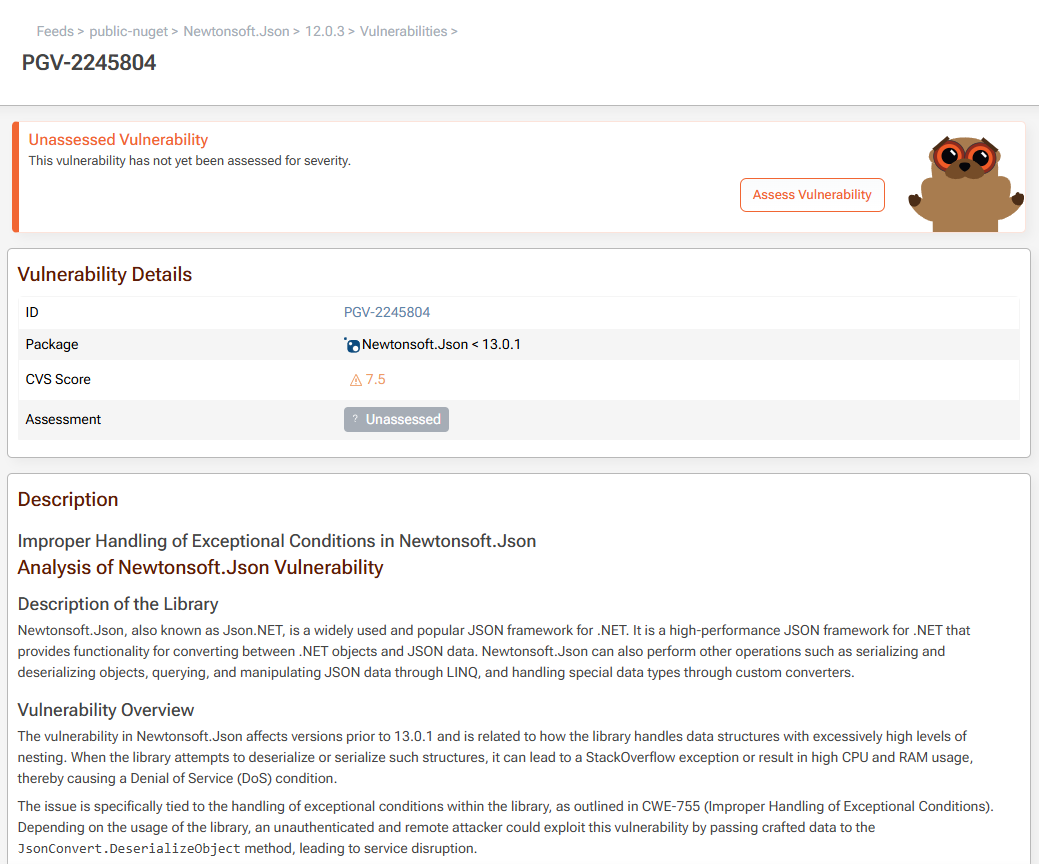
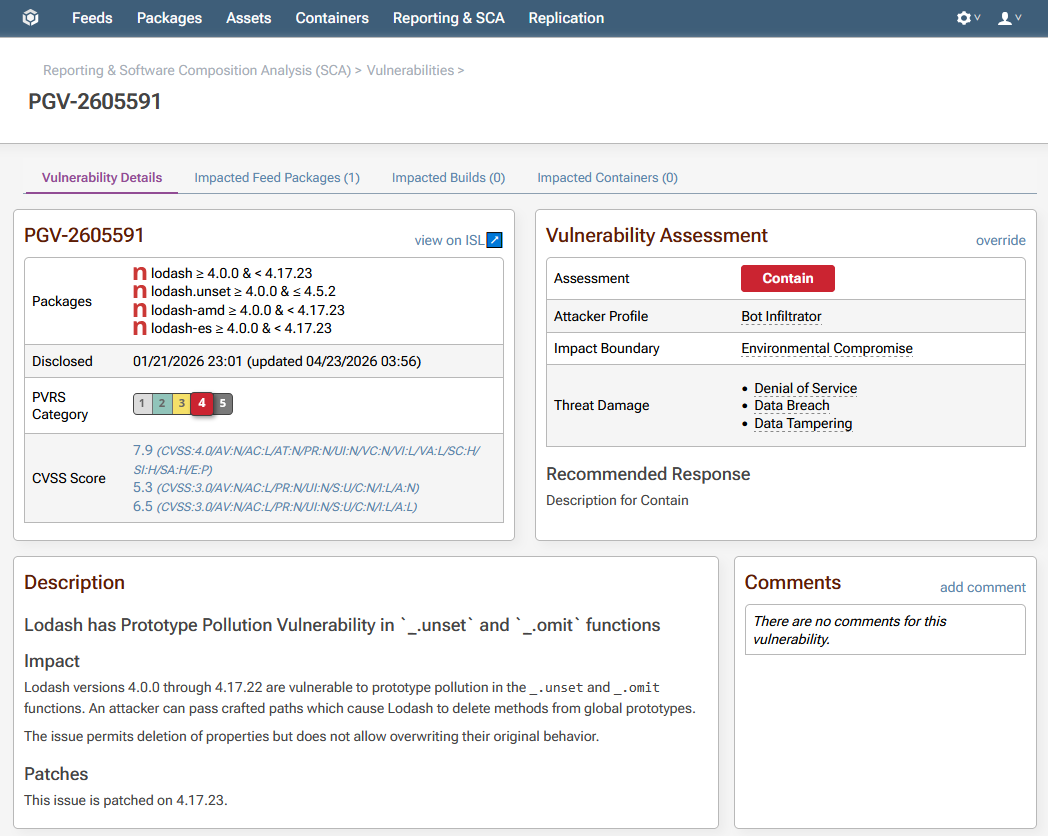
revised vulnerabilities page

diff --git a/Content/proget/sca/vulnerabilities/#.md b/Content/proget/sca/vulnerabilities/#.md
@@ -1,24 +1,43 @@
 ---
-title: "Vulnerability Scanning & Blocking"
+title: "Vulnerability Scanning & Assessment"
 order: 3
 ---
 
-ProGet can automatically scan third-party open-source packages and container images for vulnerabilities, allowing you to assess the risk they may pose. This allows you to not only block packages or container images that you deem too risky for use, but also determine which of your [Projects and Releases](/docs/proget/sca/builds) are affected by security vulnerabilities. You can also warn users about security vulnerabilities and receive alerts when new vulnerabilities are discovered.
+ProGet can identify vulnerabilities in open-source packages, assess the exploitation risk in your environment, and help you decide which actions to take and when. This lets you monitor vulnerabilities across your CI/CD pipeline and production environments, and optionally block risky packages from being downloaded.
 
-:::(Info) (🔍 Get Started with Vulnerability Scanning in Minutes)
-For a walkthrough on how to configure vulnerability scanning in just a few minutes, see [HOWTO: Scan and Block Packages in ProGet](/docs/proget/sca/vulnerabilities/howto).
+:::(Internal) (TODO: Update)
+This article explains how vulnerability scanning works and how you can configure blocking rules and assessments when a package is found to be vulnerable.
 :::
 
-This article explains how vulnerability scanning works and how you can configure blocking rules and assessments when a package is found to be vulnerable.
+## Package Vulnerabilities 
 
-## Package Vulnerabilities
-When the "vulnerability detection" feature is enabled on your feed, a "Vulnerabilities" tab will appear on packages and list the known vulnerabilities that were detected. Clicking on a vulnerability will provide information about the severity, reproduction details, remediation steps, and so on.
+ProGet displays relevant vulnerabilities when viewing a particular package, container image, or build. You can also see all identified vulnerabilities under the SCA & Reporting tab.
+
+![Vulnerability List](/resources/docs/proget-sca-vulnerabilities-list.png){height="" width="50%"}
+
+Clicking on an entry will provide technical details about the vulnerability itself, the impacted packages and builds, and context-specific assessments with recommended action.
+
+:::(Internal) (Note: Screenshot)
+Updated, but final version probably needed (e.g. currently only a placeholder description for Assessment Type)
+:::
 
 ![Vulnerability Details](/resources/docs/proget-vulnerabilities-details.png){height="" width="50%"}
 
 When a package has a severe vulnerability, you’ll see this message on the overview page:
 
 ![Severe Warning](/resources/docs/proget-vulnerabilities-severewarning.png){height="" width="50%"}
+
+### PVRS Categories
+
+ProGet uses PVRS (Package Vulnerability Rating System) categories to give actionable, environment-specific guidance on how to respond to each vulnerability. These factor in real-world exploitability and business impact, categorizing vulnerabilities from 1 to 5:
+
+* **Category 1:** Exploitation not practically possible; no special action required
+* **Category 2:** Real-world risk is low; address in next major release
+* **Category 3:** Real-world risk is moderate; remediate in upcoming maintenance release
+* **Category 4**: Real-world risk is high; remediate in next maintenance release
+* **Category 5:** Risk is immediate and unacceptable; remediate outside the normal release cycle
+
+The category assigned to a vulnerability depends on your organization's risk profile. See [Understanding ProGet’s Three Assessment Types](https://guides.inedo.com/vulnerability-management/assessments/) to learn more.
 
 ## Blocking Vulnerable packages
 If you have a paid version of ProGet, [you'll be able to configure blocking rules](/docs/proget/sca/vulnerabilities/howto#step-4-enable-download-blocking-rules) so that packages like this can't be downloaded as well as assess vulnerabilities and comment as to why they're severe or okay for your organization.
@@ -29,135 +48,58 @@ Package blocking is configured on a feed-by-feed basis under SCA & Reporting > V
 
 Attempts to download the package from the API will result in a "404" error.
 
-A package will be blocked  when:
+A package will be blocked when:
 * A vulnerability was assessed as severe enough to prevent downloads
 * The vulnerability is unassessed, and you enabled the "block unassessed" rule on the feed.
 
 ## Container Vulnerabilities
 To scan containers for vulnerabilities, ProGet [extracts and inspect the files within each container image layer](/docs/proget/docker/private-registries) and looks for vulnerable packages that are installed. The "Packages" and "Vulnerabilities" tab of a container image will show these:
 
-![Container Vulnerabilities](/resources/docs/proget-vulnerabilities-container.png){width="50%"}
+![Container Vulnerabilities](/resources/docs/proget-vulnerabilities-container.png){height="" width="50%"}
 
-This feature requires ProGet 2023.29 or later; older versions of ProGet integrate with a free, open-source tool to extract and inspect the layers. See [HOWTO: Integrate Clair and ProGet](/docs/proget/installation/proget-old-versions-migration/proget-compliance-clair) to learn how to configure this tool.
+## Vulnerability Assessments
 
-## Assessing Vulnerabilities
-Many vulnerabilities – even severe ones – will not have an impact on your applications. 
-For example, consider the vulnerability on the Newtonsoft.Json package in the screenshots above: *Improper Handling of Exceptional Conditions in Newtonsoft.Json*.
+ProGet automatically assesses each vulnerability based on your organization's [configured risk profile](https://guides.inedo.com/vulnerability-management/categories/#risk-profile), assigning one of three assessment types that recommend how to respond. 
 
-If you read the details of the vulnerability, you’ll see that applications that use that version of the package will be susceptible to a Denial of Attack if a malicious user is able to send a massive (9.5MB+) JSON request to an API.
+![Risk Profile](/resources/docs/proget-policies-riskprofile.png){height="" width="50%"}
 
-For public-facing applications, that’s a pretty big deal – and an anonymous hacker could quickly disrupt your service. But for internal-use applications, these attacks are highly unlikely. Not only that, you can easily bypass the vulnerability by checking the size of the JSON request, setting a recursion limit in the Newtonsoft configuration, etc.
+Since assessments are derived from your risk profile, they won't always perfectly reflect real-world impact. For cases like these, ProGet lets you [override the assessment](https://guides.inedo.com/vulnerability-management/customizing/#default) on a vulnerability-by-vulnerability basis.
 
-This is where *vulnerability assessments* come in: authorized users can [assess these vulnerabilities](/docs/proget/sca/vulnerabilities/howto#step-5-assess-package-vulnerabilities), select an assessment type (Ignore, Caution, Block, etc.), and leave an optional comment explaining the decision.
+### Understanding the Assessment Types
 
-### Assessment Expiration
-Vulnerability assessments can expire. When an assessment expires, the vulnerability will be considered "unassessed" and may cause the package download to be blocked, depending on whether unassessed vulnerabilities are allowed on the feed.
+Each vulnerability is assigned one of three assessment types, which indicate the recommended response:
 
-:::(Internal) (TODO: Screenshot showing the expiration on an advanced tab)
-:::
+* **Monitor:** No immediate action is required. In previous versions of ProGet, this was labeled as "Ignore".
+* **Remediate:** Plan to address the vulnerability in a scheduled release. This used to appear in ProGet as "Caution".
+* **Contain:** Investigate the impact of the vulnerability and address as soon as reasonable. This used to appear as "Blocked".
 
-This is primarily useful to temporarily allow packages. For example, you could temporarily allow Newtonsoft.Json 12.0.3 for 90 days by assessing it as "Caution"; once the assessment expires (and the feed is configured to block unassessed packages), the package will no longer be downloadable.
+See [Understanding ProGet’s Three Assessment Types](https://guides.inedo.com/vulnerability-management/assessments/) to learn more.
 
-### Assessment Types
-ProGet has three built-in assessment types:
+### Customizing Assessment Types
 
-* **Ignore** indicates that the vulnerability report is not applicable or irrelevant and therefore allows packages to be downloaded
-* **Caution** tells developers to be careful to avoid the vulnerability; packages can be downloaded, but a warning is issued on the web UI
-* **Blocked** means that a vulnerability is too severe to allow use and packages cannot be downloaded
+ProGet's automatic assessments are based on your organization's risk profile, but a vulnerability's real-world impact also depends on how a dependency is actually used within an application. Because of this, there are a few ways to tailor assessment behavior to better match your environment.
 
-You can [edit these types or create your own](/docs/proget/sca/vulnerabilities/howto#step-6-optional-add-custom-assessment-types) by going to "Admin Overview" > "Assessment Types" and clicking on "Create Assessment Type" to specify a name, expiration (days), color, whether or not to block packages, and an area for automatic assessment.
+### Creating Custom Assessment Types
+Useful for when the default assessment types don't provide enough direction for your team. For example, adding more granular types that map to all five PVRS categories, or to implement a manual review for severe vulnerabilities instead of auto assessing them as "Contain". Custom assessment types should only be created when there is a clear and intentional process behind them.
 
-Auto assessment can be customized to your preferences. However if you’re unsure of what the best option is; we recommend the following auto-assessment setup:
+To create a custom assessment type, navigate to "Administration" > "Vulnerabilities & Assessment Types" and select "Create Custom Assessment Type" 
 
-| Assessment Type | Auto assess (CVSS) | Expiration |
-| --- | --- | --- |
-| **Ignore** | Low (0.1-3.9) | 90 days |
-| **Caution** | High (7.0-8.9) | 30 days |
-| **Blocked** | Critical (9.0-10.0) | 30 days |
+![Customize Vulnerability](/resources/docs/proget-assessements-custom.png){height="" width="50%"}
 
-This configuration will ignore _low_ score vulnerabilities that typically will not impact your security while _critical_ vulnerabilities are immediately blocked for download.
+Assessment expiration can be set so that vulnerabilities revert to unassessed if they aren't addressed within a defined period. ProGet treats unassessed vulnerabilities as non-compliant, ensuring they get revisited rather than sitting indefinitely without review.
 
-_Medium_ score vulnerabilities will be left unassessed in this case because these vulnerabilities should be reviewed by someone to determine if they are ignored, require caution, or—in rare cases—should be blocked. These medium-score vulnerabilities do not typically require immediate action.  
+Expiration can be set on the "Advanced Behavior" tab of an Assessment Type.
 
-_High_ score vulnerabilities are not blocked in this scenario—but should be treated with caution because they typically have a security flaw in a specific feature of the package, but may not be a feature that your application is leveraging. 
+![Expiration](/resources/docs/proget-assessments-expiry.png){height="" width="50%"}
 
-#### Assessment Scores
+### Suppressing Vulnerability Alerts
+Suppressing alerts lets you control which assessment types are reported to tools like npm audit or NuGet audit. For instance, suppressing vulnerabilities assessed as "Monitor", while keeping issues assessed as "Remediate" or "Contain" visible. Suppression can be set on the "General" tab of an Assessment Type.
 
-Most vulnerabilities will have a simple "score" that rates the severity on a scale of 0.1 to 10.0 using a variety of factors. You can automatically assess vulnerabilities based on this score to either:
-* Ignore or warn about low-score vulnerabilities
-* Block high-score vulnerabilities
+![Suppression](/resources/docs/proget-assessments-suppression.png){height="" width="50%"}
 
-Auto-assessment rules will also not be applied to vulnerabilities with an expired assessment.
-
-### Custom Vulnerability types
-Creating and using custom vulnerability types can be very helpful when:
-
-* You want different vulnerability expirations
-* You want to tag vulnerabilities that may be treated or reviewed differently
-
-**For example**: Let's say you want an auto assessment for high (7.0-8.9) to not block, but they require a critical review. To accomplish this, you could create a "Critical Review" assessment type that auto-assesses when a high vulnerability is located. Then a security admin can filter these on the Vulnerabilities page in ProGet to do critical reviews.
-
-:::(Internal) (TODO: Updated Screenshot)
-We no longer have Block Downloads, so this shot should be updated
-![Critical Review Custom Assessment Type](/resources/docs/nugetvulnerability-criticalreviewassessmenttype.jpg){height="" width="50%"}
-:::
-
-:::(Info) (📺 3-minute Video:  OSS Vulnerabilities)
-<iframe width="600" height="337" src="https://www.youtube.com/embed/vLCo3rsBPjY?si=GJvj_8pQbLRtF58O" frameborder="0" allowfullscreen="true"></iframe>
-:::
-
-<h2 id="vulnerability-sources">ProGet 2023 and earlier</h2>
-
-ProGet 2023 and earlier behave  very similar to what's documented, but there are a few minor behavioral and configuration changes to be aware of.
-
-
-### Vulnerability Assessments
-In ProGet 2023, existing vulnerabilities that were already added to ProGet will *not* be auto-assessed. This means that, when you configure auto-assess on an assessment type, it will only apply to new, unassessed vulnerabilities. 
-
-In addition, ProGet 2023 vulnerability assessments do not have their own expiry date. Instead, it is calculated based on the expiry rule on an assessment type. This means that, when you edit the expiry rule field, it will apply immediately to all vulnerabilities assessed with that type.  Depending on when the vulnerability was assessed, it may immediately expire or be valid.
-
-### Assessment Types & Blocked Packages
-In ProGet 2023, Assessment Types have a "Block Packages" option. When this option is selected, packages that have vulnerabilities that were assessed with this assessment type will be blocked. 
-
-### Manual Vulnerability Records
-ProGet 2023 and earlier allows you to add a manual vulnerability record on a specific package version (or [version ranges](#version-ranges)), or on a container image layer. These are used almost exclusively as a "hack" to block downloads of certain packages, are have since been discontinued in ProGet 2024 favor of other tools to prevent usage of noncompliant packages.
-
-To add manual records, navigate to the `Vulnerabilities` tab on the package or container image page then click the `Add Vulnerability` button to specify the feed, the package ID, and version(s) or the container image layer digest, and the details of the vulnerability.
-
-Manual vulnerability records may encompass multiple package versions using version range syntax, for example:
-
-| Range | Meaning |
-|--- |--- |
-| 3.0.0 | version = 3.0.0 |
-| [3.0] | version = 3.0 |
-| <=2.0 | version <= 2.0 |
-| [1.3,1.4] | 1.3 <= version <= 1.4 |
-| >=1.3 <=1.4 | 1.3 <= version <= 1.4 |
-| >2.5 | version > 2.5 |
-| <=1.0,>=1.2 | version <= 1.0 or version >= 1.2 |
-| <1.1 >1.1 | Exclude version 1.1 |
-| [, 2.0.0] | version >= 2.0.0 and < 3.0.0 |
-
-_Note: versions must be specified out to their full value to match. For example, 2.0 will *not* match 2.0.0_
-
-Due to the inconsistency in container repository tags, container registries are not compatible with version ranges.
-
-### Vulnerability Sources
-ProGet 2023 and earlier uses a component called "Vulnerability Sources" to scan packages. You can configure these on Admin > Vulnerability Sources, and we recommend using only one vulnerability source at a time.
-
-#### ProGet Vulnerability Central (PGVC)
-ProGet Vulnerability Central (PGVC) is uses a database from [Inedo Security Labs](https://security.inedo.com/), which is  includes an industry-leading aggregation of publicly-disclosed vulnerabilities from a variety of sources, as well as malicious packages we've detected.
-
-It's bundled as an offline database in ProGet and is used to show which open-source packages have which vulnerabilities. In most cases, PGVC will be enabled by default. If you enabled OSS Index in ProGet 2022 or earlier, it will be disabled.
-
-#### Third-Party Vulnerability Sources
-In addition to PGVC, ProGet 2023 and earlier also supports the use of [third-party vulnerability sources such as OSS Index](/docs/proget/installation/proget-old-versions-migration/proget-compliance-ossindex). ProGet runs a recurring job to scan your local (or Connector cached) packages. Note that remote Connector packages that are not cached locally cannot be scanned using a third-party vulnerability source, since ProGet must submit a list of all packages and versions to be queried, and this information is often not available from remote sources.
-
-Information about vulnerabilities from a third-party source is not displayed on the Vulnerabilities tab unless the package is cached or otherwise stored locally and the nightly scan job has been run.
+See [Customizing Assessment Types In ProGet](https://guides.inedo.com/vulnerability-management/customizing/) to learn more.
 
 ## Malicious Packages
-
-*This section refers to newer versions of ProGet only; see [Changes to Malicious Package Handling in 2025.20 and Beyond](https://blog.inedo.com/inedo/2025-20-malicious-package-changes) to learn more.*
 
 ProGet will also detect and automatically block [known Malicious Packages](https://security.inedo.com/vulnerability/malicious-packages). 
 
@@ -181,3 +123,9 @@ A malicious package is always considered noncompliant. In the unlikely event you
 This means that:
  * if a malicious package is included in a Build, the build will always be considered noncompliant
  * if a malicious package is found in a feed, it will trigger notifiers as appropriate
+
+ ## ProGet 2025 and earlier
+
+As the security and vulnerability management practices evolved over the years, so has ProGet. While earlier versions of ProGet will behave differently than what's documented here, the functionality and workflows remain conceptually similar.
+
+See the [archived documentation (github.com)](https://github.com/Inedo/inedo-docs/blob/f8d48bc98f0112c653819f565e5bab2a7a20c01d/Content/proget/sca/vulnerabilities/%23.md){ target="_blank"} to understand how earlier versions functioned, as well as the [ProGet 2026 Upgrade Notes](/docs/proget-upgrade-2025) to learn what changed recently.